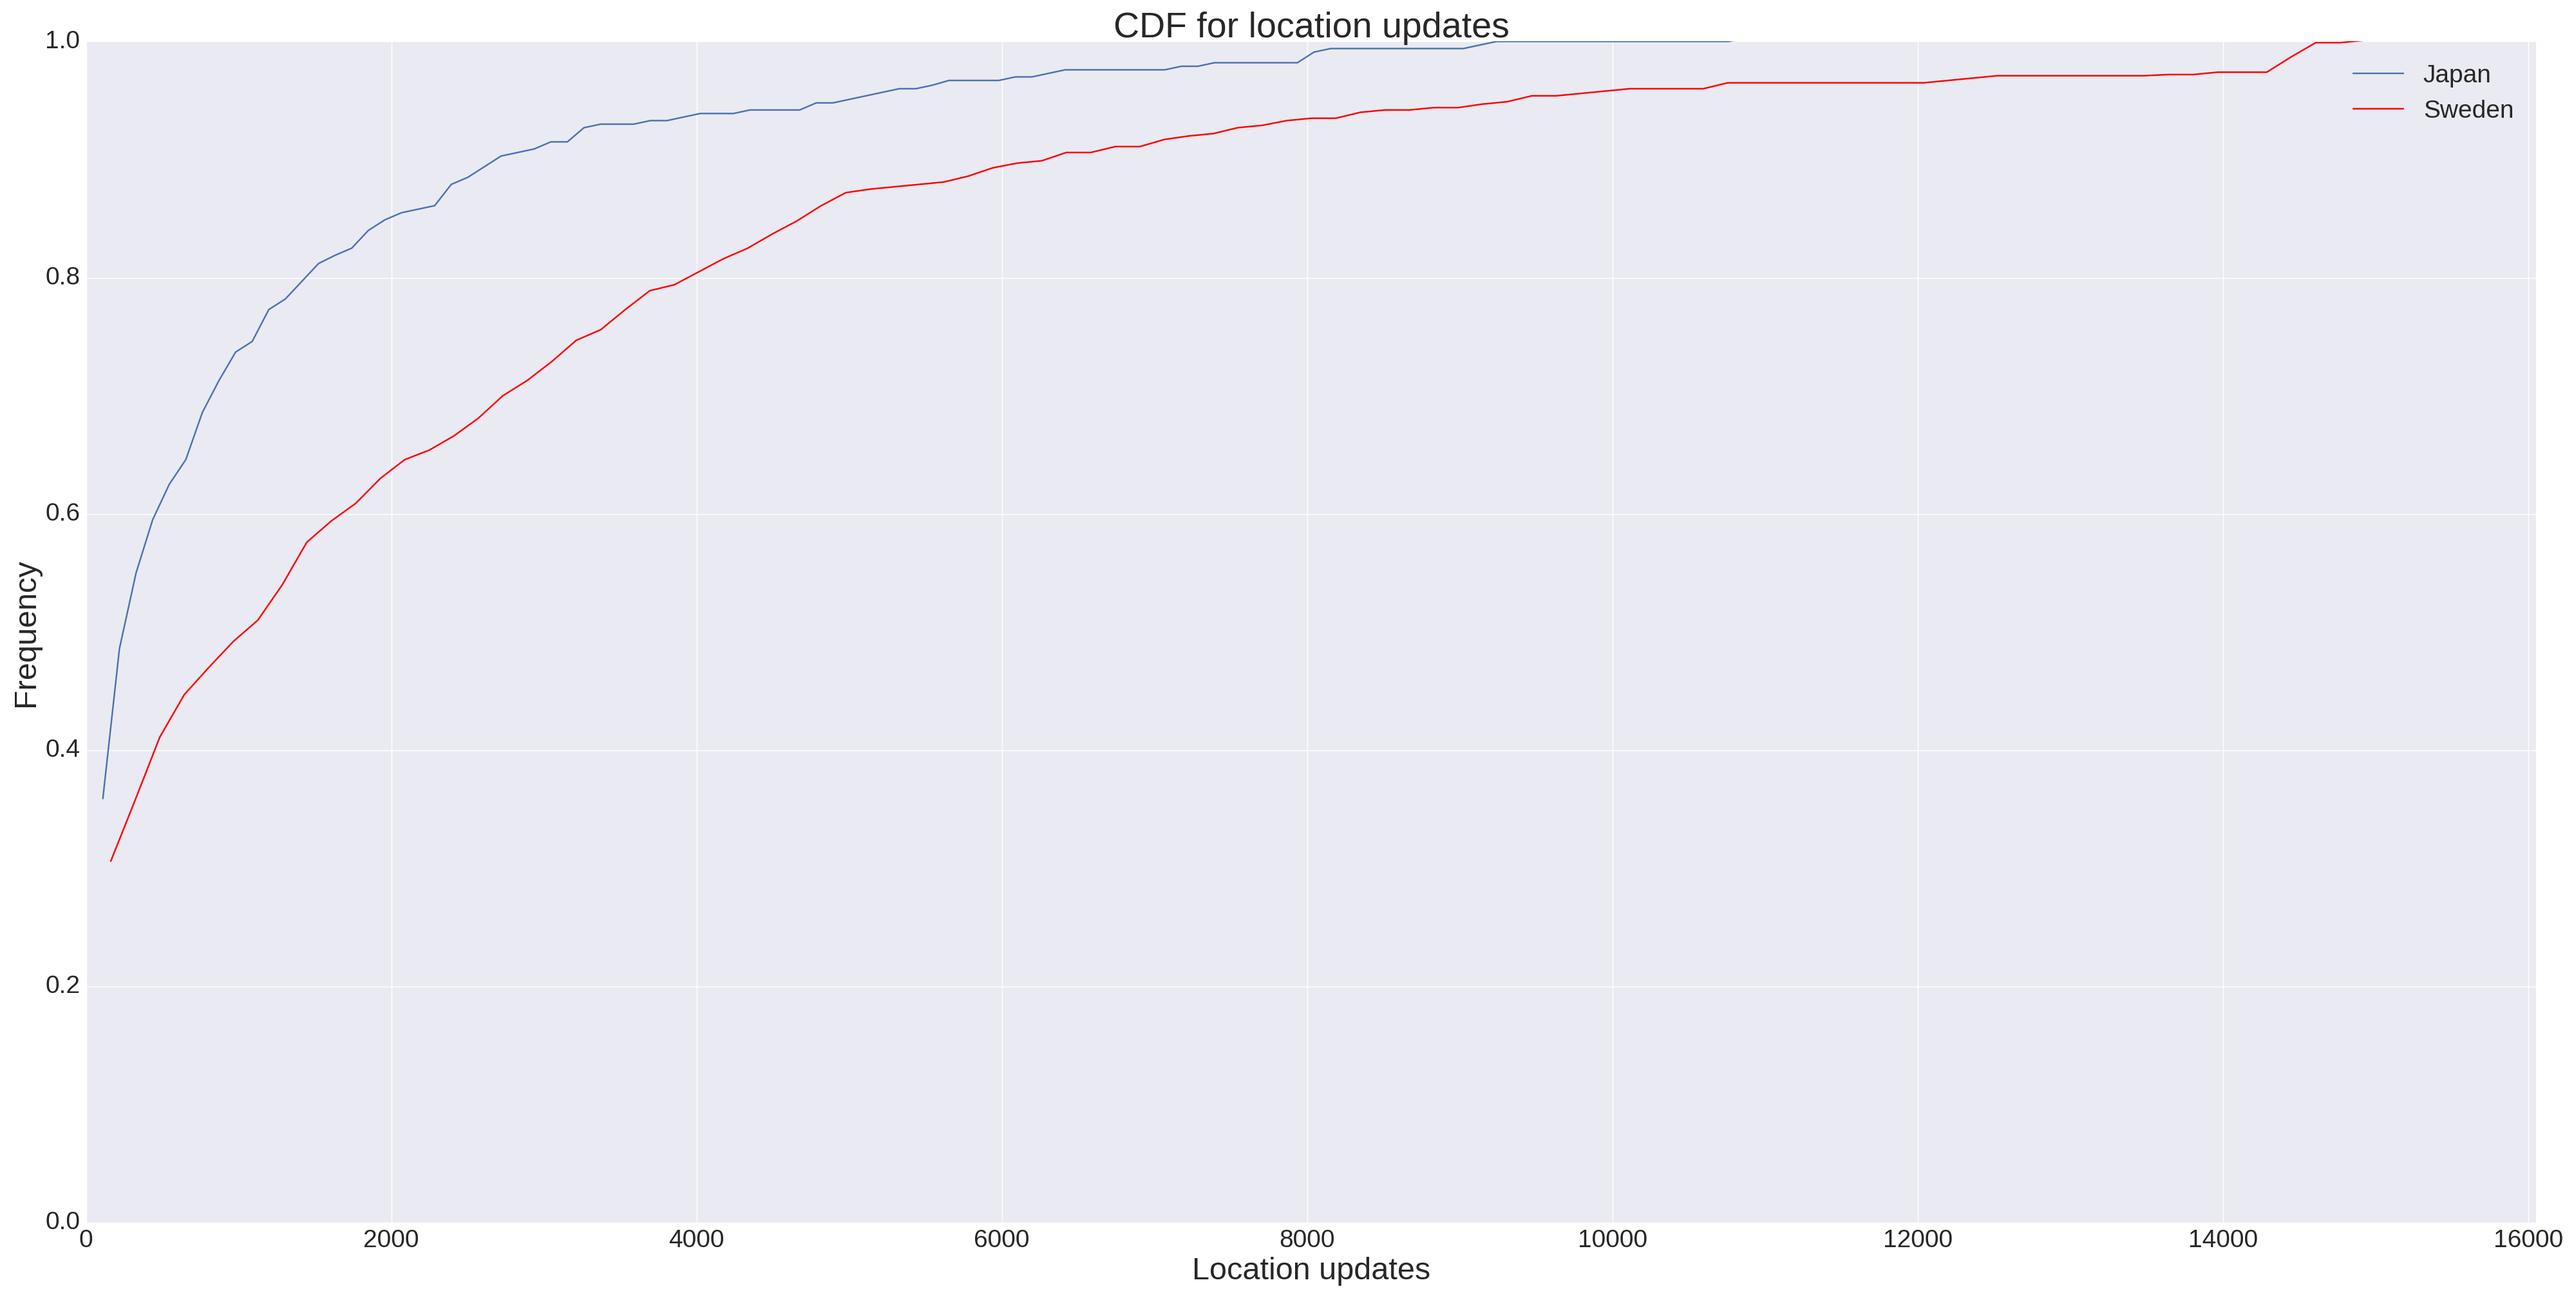
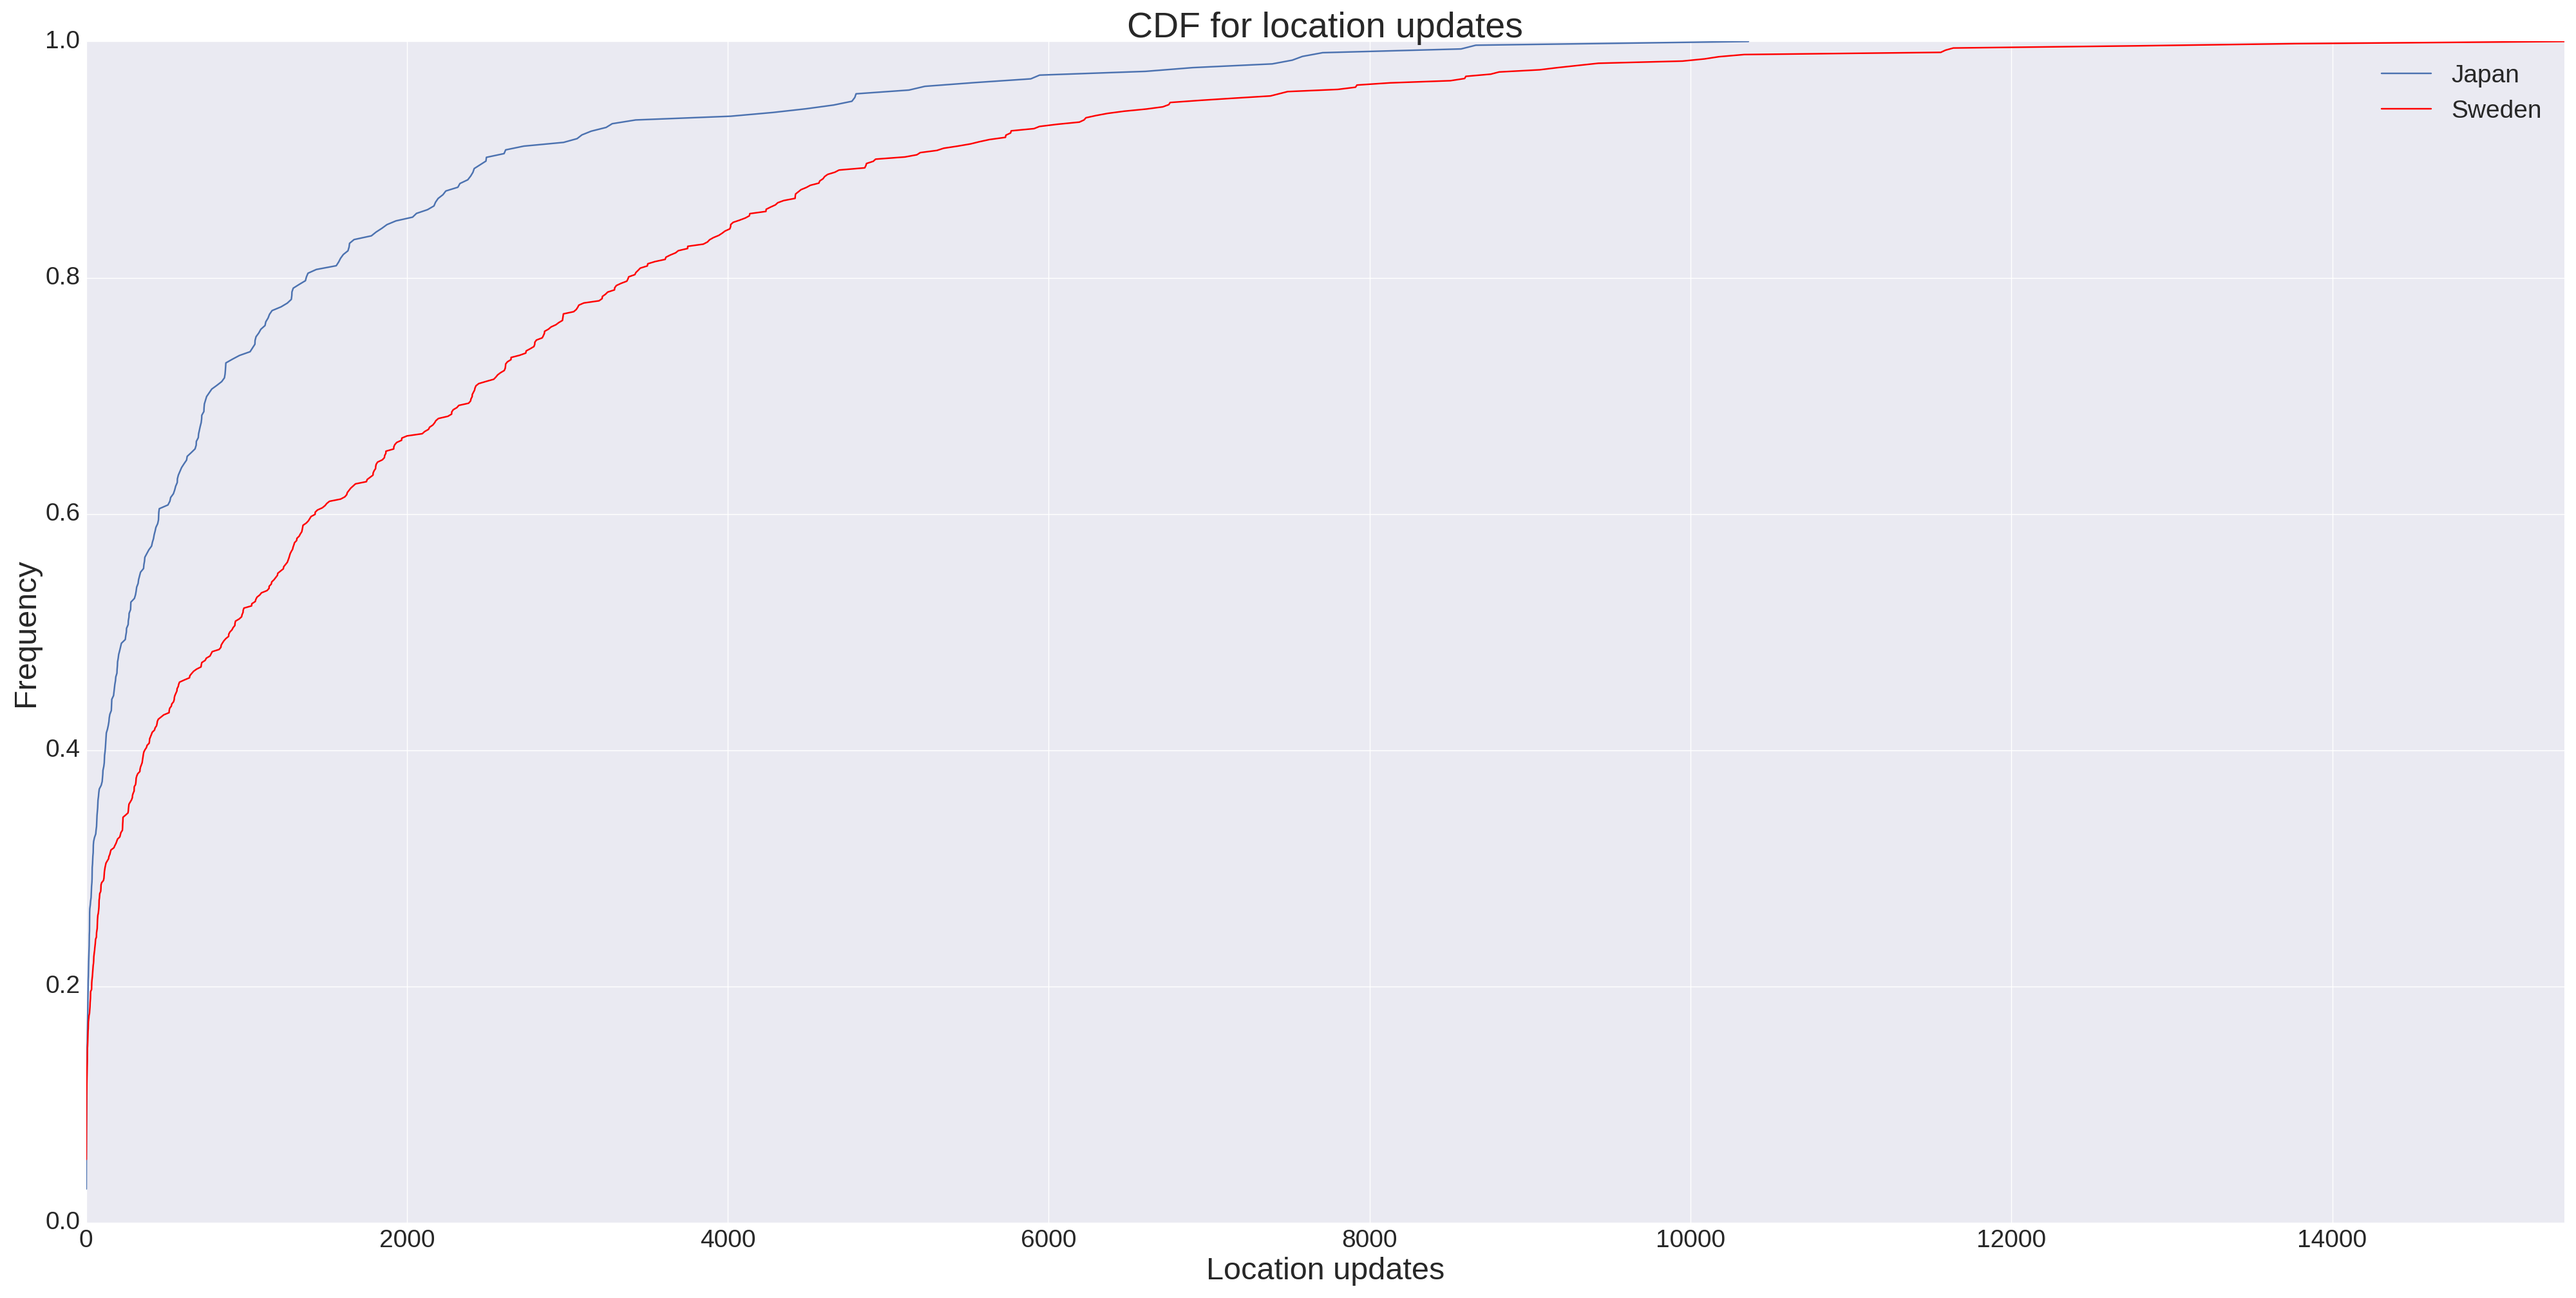
CDF updated

diff --git a/report/dataset.tex b/report/dataset.tex
@@ -121,11 +121,9 @@ Vi kan se på medianen og mean, at de fleste brugere har lav værdi i accuracy -
 Medianen og mean svarer til henholdsvis 23m og 26.89m og 95\% standard deviation er på mellem 6.6m og 47.19m hvilken er en fin accuracy. 
 
 
-
- 19,344,  80 
-Når vi kigger på hvilke lande der er repræsenteret og i hvilken grad, har vi at gøre med 80 unikke lande. Til at starte med lå dette tal på 74. Det viste sig, at der var en masse lokations opdaterings hvor landet ikke var blevet logget, hvor landet blot var repræsenteret med en tom streng. Dette var tilfældet i så stor en del af dataet, at landet med en tom streng, var det andet mest repræsenterede land i dataet med lidt over 500.000 lokations opdateringer. 
-Da vi gerne vil kunne sorterer data på baggrund af land, var dette et problem. Dette var et problem som vi løste, ved at udføre omvendt geolokation. For næsten alle de 500.000 lokations opdaterings, var latitude og longitude til stede, så vi kunne ved hjælp af et API\cite{reversegeocode} slå landet op på bagrund af latitude og longitude, og herefter indsætte det i dataet. Dette gjorde vi kun skulle gøre dette én gang, stedet for at slå landet op hver gang vi kørte vores scripts. Dette ville have været ineffektivt og spilde tid.\\ 
-Vores omvendt geolokation gjorde, at vi gik fra over 500,000 lokations opdaterings hvor landet ikke var til stede, til blot 130 lokations opdaterings. I samme omgang gik vi fra 74 lande til 80 (inkl. land med tom streng)
+Når vi kigger på hvilke lande der er repræsenteret og i hvilken grad, har vi at gøre med 80 unikke lande. Til at starte med lå dette tal på 74. Det viste sig, at der var en masse lokations opdateringer hvor landet ikke var blevet logget. I disse tilfælde var landet blot repræsenteret med en tom streng. Dette var tilfældet i så stor en del af dataet, at landet med en tom streng, var det andet mest repræsenterede land i dataet med lidt over 500.000 lokations opdateringer. 
+Da vi gerne vil kunne sorterer data på baggrund af land, var dette et problem. Dette var et problem som vi løste, ved at udføre omvendt geolokation. For næsten alle de 500.000 lokations opdateringer, var latitude og longitude til stede, så vi kunne ved hjælp af et API\cite{reversegeocode} slå landet op på bagrund af latitude og longitude, og herefter indsætte det i dataet. Dette gjorde vi kun skulle gøre dette én gang, i stedet for at slå landet op hver gang vi kørte vores scripts. Dette ville have været ineffektivt og spild af tid. Derudover havde API'et en grænse hvor hvor mange man kunne slå op i minuttet, hvilket gjorde at det tog en uges tid at slå alle op. Her kørte scriptet 24/7. \\ 
+Vores omvendt geolokation gjorde, at vi gik fra over 500,000 lokations opdateringer hvor landet ikke var til stede, til blot 130 lokations opdateringer. I samme omgang fik vi nye lande repræsenteret i dataet, så vi gik fra 74 lande til 80 (inkl. land med tom streng)
 
 Vi kan herefter kigge på, hvordan lokations opdateringerne er distribueret over hvert land. På figur \ref{fig:country_dist} kan vi se at landet med en tom streng, røg godt ned på listen, mens Sverige og Japan topper listen. 
 
@@ -137,6 +135,8 @@ Vi kan herefter kigge på, hvordan lokations opdateringerne er distribueret over
     \caption{Distribution for number of location updates between countries}
     \label{fig:country_dist}
 \end{figure}
+
+At Sverige og Japan er de to størst repræsenterede lande er ikke så mærkeligt, da Sony er et Japansk firma og Sony overtog helt Sony-Ericsson, hvor Ericsson var Svensk. Sony-Ericsson var den gang Sony's mobil mærke. 
 
 På baggrund af Figure \ref{fig:country_dist}, har vi valgt at gå videre med endten Sverige eller Japan. Derfor vil vi nu sammeligne data for de to lande. 
 I Japan er der 316 unikke brugere, mens der i Sverige er 542. De to lande kan have brugere tilfælles, da brugerne principielt kan rejse mellem flere lande og derved have lokations opdateringer i flere lande.  
@@ -152,31 +152,11 @@ Figure \ref{fig:mean_loc_updates_sep-nov} sammenligner gennemsnittet for lokatio
 \end{figure}
 
 Vi kan se at Sverige har betydeligt flere opdateringer end Japan i alle tre måneder, hvor landet i September og Oktober endda har dobbelt så mange end Japan. Vi kan også se en nedadgående tendens i begge lande. September har højest antal opdateringer, hvor det herefter går nedad i de to resterende måneder, hvor November for Sverige ligger over 300 opdateringer under September. Selvom tendensen ses tydeligst for Sverige, er den også synlig for Japan. \\
-Dette kigger vi nermere på senere. \textcolor{red}{heatmaps???}
-
-Vi vil gerne se hvordan lokations opdateringerne for de to lande, er fordelt på brugerne. Til dette har vi plottet den Cumulative Distribution Function (CDF) for de to lande - se Figure \ref{fig:country_cdf}. 
-Plottet viser, at både i Japan og Sverige er der en stor del af brugerne, som har meget få lokations opdateringer set henover hele perioden. Over en tredje del af brugerne i begge lande, har kun 1 opdatering over tre måneder. Det kan også ses, at Japan har flere brugere med kun én opdatering end hvad Sverige har. 
-Da opdateringerne kommer hver gang brugeren skifter lokation, betyder dette, at mange af brugerene er meget stillestående eller også har de slukket mobilen. Begge disse scenarier tegner ikke godt for vores mål, da det giver sig selv at der skal være nogle data for at finde co-occurences. 
-Dette kunne tyde på at data fra Sverige vil være mere brugbart end Japan. 
-
-%Dog er binsize forskellig for de to plot og hvis vi sammenligner nøgleværdierne for de to lande (Table \ref{tab:stat_loc_updates}) kan vi se, at Sverige har større Q1 end Japan.
-
-% \begin{figure}[H]
-%     \centering
-%     \includegraphics[scale=0.18]{cumulative_dist_loc_updates_swe_jap}
-%     \caption[Cumulative distribution for location update]{Cumulative distribution for location update. (a) show the cumulative distribution for all users in Japan; (b) show it for Sweden}
-%     \label{fig:country_cd}
-% \end{figure}
+Dette kigger vi nærmere på senere. \textcolor{red}{heatmaps???}
 
 
 
-\begin{figure}[H]
-    \hspace*{-1.0cm}
-    \centering
-    \includegraphics[scale=0.14]{cdf_location_updates_swe_jap}
-    \caption{Cumulative Distribution Function (CDF) over location updates for Japan and Sweden}
-    \label{fig:country_cdf}
-\end{figure}
+Vi vil gerne se hvordan lokations opdateringerne for de to lande, er fordelt på brugerne. Til dette har vi quantilerne for de to lande, som se i Tabel \ref{tab:stat_loc_updates} 
 
 \begin{table}[htbp]
         \centering
@@ -202,9 +182,37 @@ Dette kunne tyde på at data fra Sverige vil være mere brugbart end Japan.
             \hline
             
         \end{tabular}
-        \caption{Quantiles and mean over location updates for Japan and Sweden per user} %add this between 'caption' and '{...' for new text in listing of tables: [New caption text only for listing of tables]
+        \caption{Quantiles and mean over location updates for Japan and Sweden} %add this between 'caption' and '{...' for new text in listing of tables: [New caption text only for listing of tables]
         \label{tab:stat_loc_updates}
 \end{table}
+
+
+Hvis vi kigger på landenes quantiler, kan vi se at 25\% quantilen (Q1) er meget lav hos begge lande. Q1 vise med andre ord, at 25\% af brugerne i Japan og Sverige har henholdsvis maksimalt 22 og 71 opdateringer, henover alle tre måneder. Dette er ikke et godt tegn at så mange brugere har så få opdateringer. 75\% quantilen (Q3) er en del højere i Sverige end i Japan, hvilket viser der er 75\% af brugerne der har maksimal 1,063.25 og 2,848.25 lokations opdateringer i henholdsvis Japan og Sverige. Dette ser igen bedre ud i Sverige, hvis brugere har flere opdateringer end Japan. \\ 
+
+Begge lande har en lille procent brugere, som står får utroligt mange opdateringer. I Sverige er der 25\% brugere som har mellem 2,848.25 og 15,447 opdateringer og i Japan har de mellem 1,063.25 og 10,316 opdateringer. Dette er ligesom med Q1 et dårligt tegn. 
+Median og mean er meget større i Sverige end Japan. Dette tyder på at der er flere brugere med flere lokations opdateringer i Sverige end i Japan. \\
+
+
+Ovenstående tendens, vil vi gerne vise mere tydeligt, hvorfor vi har plottet den Cumulative Distribution Function (CDF) for de to lande. 
+\begin{figure}[H]
+    \hspace*{-1.0cm}
+    \centering
+    \includegraphics[scale=0.14]{cdf_location_updates_swe_jap}
+    \caption{Cumulative Distribution Function (CDF) over location updates for Japan and Sweden}
+    \label{fig:country_cdf}
+\end{figure}
+
+Plottet viser, at både i Japan og Sverige er der en stor del af brugerne, som har meget få lokations opdateringer set henover hele perioden. Over en tredje del af brugerne i begge lande, har kun 1 opdatering over tre måneder. Det kan også ses, at Japan har flere brugere med kun én opdatering, end hvad Sverige har. 
+Da opdateringerne kommer hver gang brugeren skifter lokation, betyder dette, at mange af brugerene er meget stillestående eller også har de slukket mobilen. Her kan stillestående også menes, at brugeren har glemt sin telefon derhjemme.
+Begge disse scenarier tegner ikke godt for vores mål, da det giver sig selv at der skal være nogle data for at finde co-occurences. 
+På baggrund af dette, kunne det tyde på at data fra Sverige vil være mere brugbart end Japan. 
+
+
+
+
+
+
+
 
 \textcolor{red}{Vi skal have en introduktion hvor vi skriver at vi prøvede at træne data, hvor vi fik dårlige resultater. Herefter kiggede vi på nedenstående}
 

diff --git a/tools/scripts/records_analysis.py b/tools/scripts/records_analysis.py
@@ -178,10 +178,13 @@ def cdf_xy_plot(data, title, xlabel, ylabel, legend_labels):
     ax = plt.subplot(111, xlabel=xlabel, ylabel=ylabel, title=title)
     plt.plot(data[0][0], data[0][1], label=legend_labels[0])
     plt.plot(data[1][0], data[1][1], label=legend_labels[1], color='r')
+    
     #plt.xlabel(xlabel)
     #plt.ylabel(ylabel)
     
     xlim_max = max([max(data[0][0]), max(data[1][0])])
+    #plt.xticks(np.arange(1, xlim_max, 499), rotation=90)
+
     plt.ylim(0, 1)
     plt.xlim(0, xlim_max)
     plt.title(title)
@@ -465,8 +468,8 @@ if __name__ == '__main__':
     dd = {'Location updates': [], 'country': []}
     total_count = {}
     for i, country in enumerate(countries):
-        query = "SELECT useruuid, count(*) FROM location WHERE country='"+country+"' \
-                 GROUP BY useruuid ORDER BY useruuid"
+        query = "SELECT useruuid, count(*) FROM location WHERE country='"+country+"'"+ \
+                "GROUP BY useruuid ORDER BY useruuid"
         result = d.run_specific_query(query)
         total_count[country] = len(result)
         print("country = {}, sum = {}, len = {}".format(country, sum([row[1] for row in result]), len(result)))
@@ -482,16 +485,25 @@ if __name__ == '__main__':
     data_summary_per_user(df, total_count)
     #boxplot(df, "country", "Location updates", "Location updates for all users in Japan and Sweden")
     #records_dist_plot(data, 100, xlabels, ylabels, titles, labels)
-    #
+    #print(data)
+    print("-------------")
+    print(df)
+    print("&&&&&&&&&&&&&&&&")
+    #print(list(df["Location updates"][df['country'] == 'Sweden']))
+    no_users = {"Japan": 316, "Sweden": 542}
     data_cdf = []
     for i, country in enumerate(countries):
-        hist, bin_edges = np.histogram(data[i], bins=100, normed=True)
-        cdf = np.around(np.cumsum(hist)*np.ceil(bin_edges[1]-bin_edges[0]), decimals=3)
-        bin_edges = bin_edges[1:]
-        data_cdf.append((bin_edges, cdf))
-
-    #cdf_xy_plot(data_cdf, "CDF for location updates", "Location updates",
-    #            "Frequency", countries)
+        updates = list(df["Location updates"][df['country'] == country])
+        c = dict(collections.OrderedDict(sorted(collections.Counter(updates).items())))
+        x = []
+        y = []
+        for updates, users in sorted(c.items()):
+            x.append(updates)
+            y.append(users/no_users[country])
+        data_cdf.append((x, np.cumsum(y)))
+        
+    cdf_xy_plot(data_cdf, "CDF for location updates", "Location updates",
+                "Frequency", countries)
 
     #............... HEAT-MAP --------------------#
     for country in countries:
@@ -526,10 +538,9 @@ if __name__ == '__main__':
     #                                 base_title="Heatmap of location updates per users\
     #                                             per day in ")
 
-    
-    #y_data = np.sum(data, axis=0)
-    #x_data = xlabels[0]
-    #rint(x_data)
+    y_data = np.sum(data, axis=0)
+    x_data = xlabels[0]
+    #print(x_data)
     #print(y_data)
 
     #xy_plot([x_data, y_data], "Number of users with location updates per day for Japan", "Days", "Number of users with location updates")
